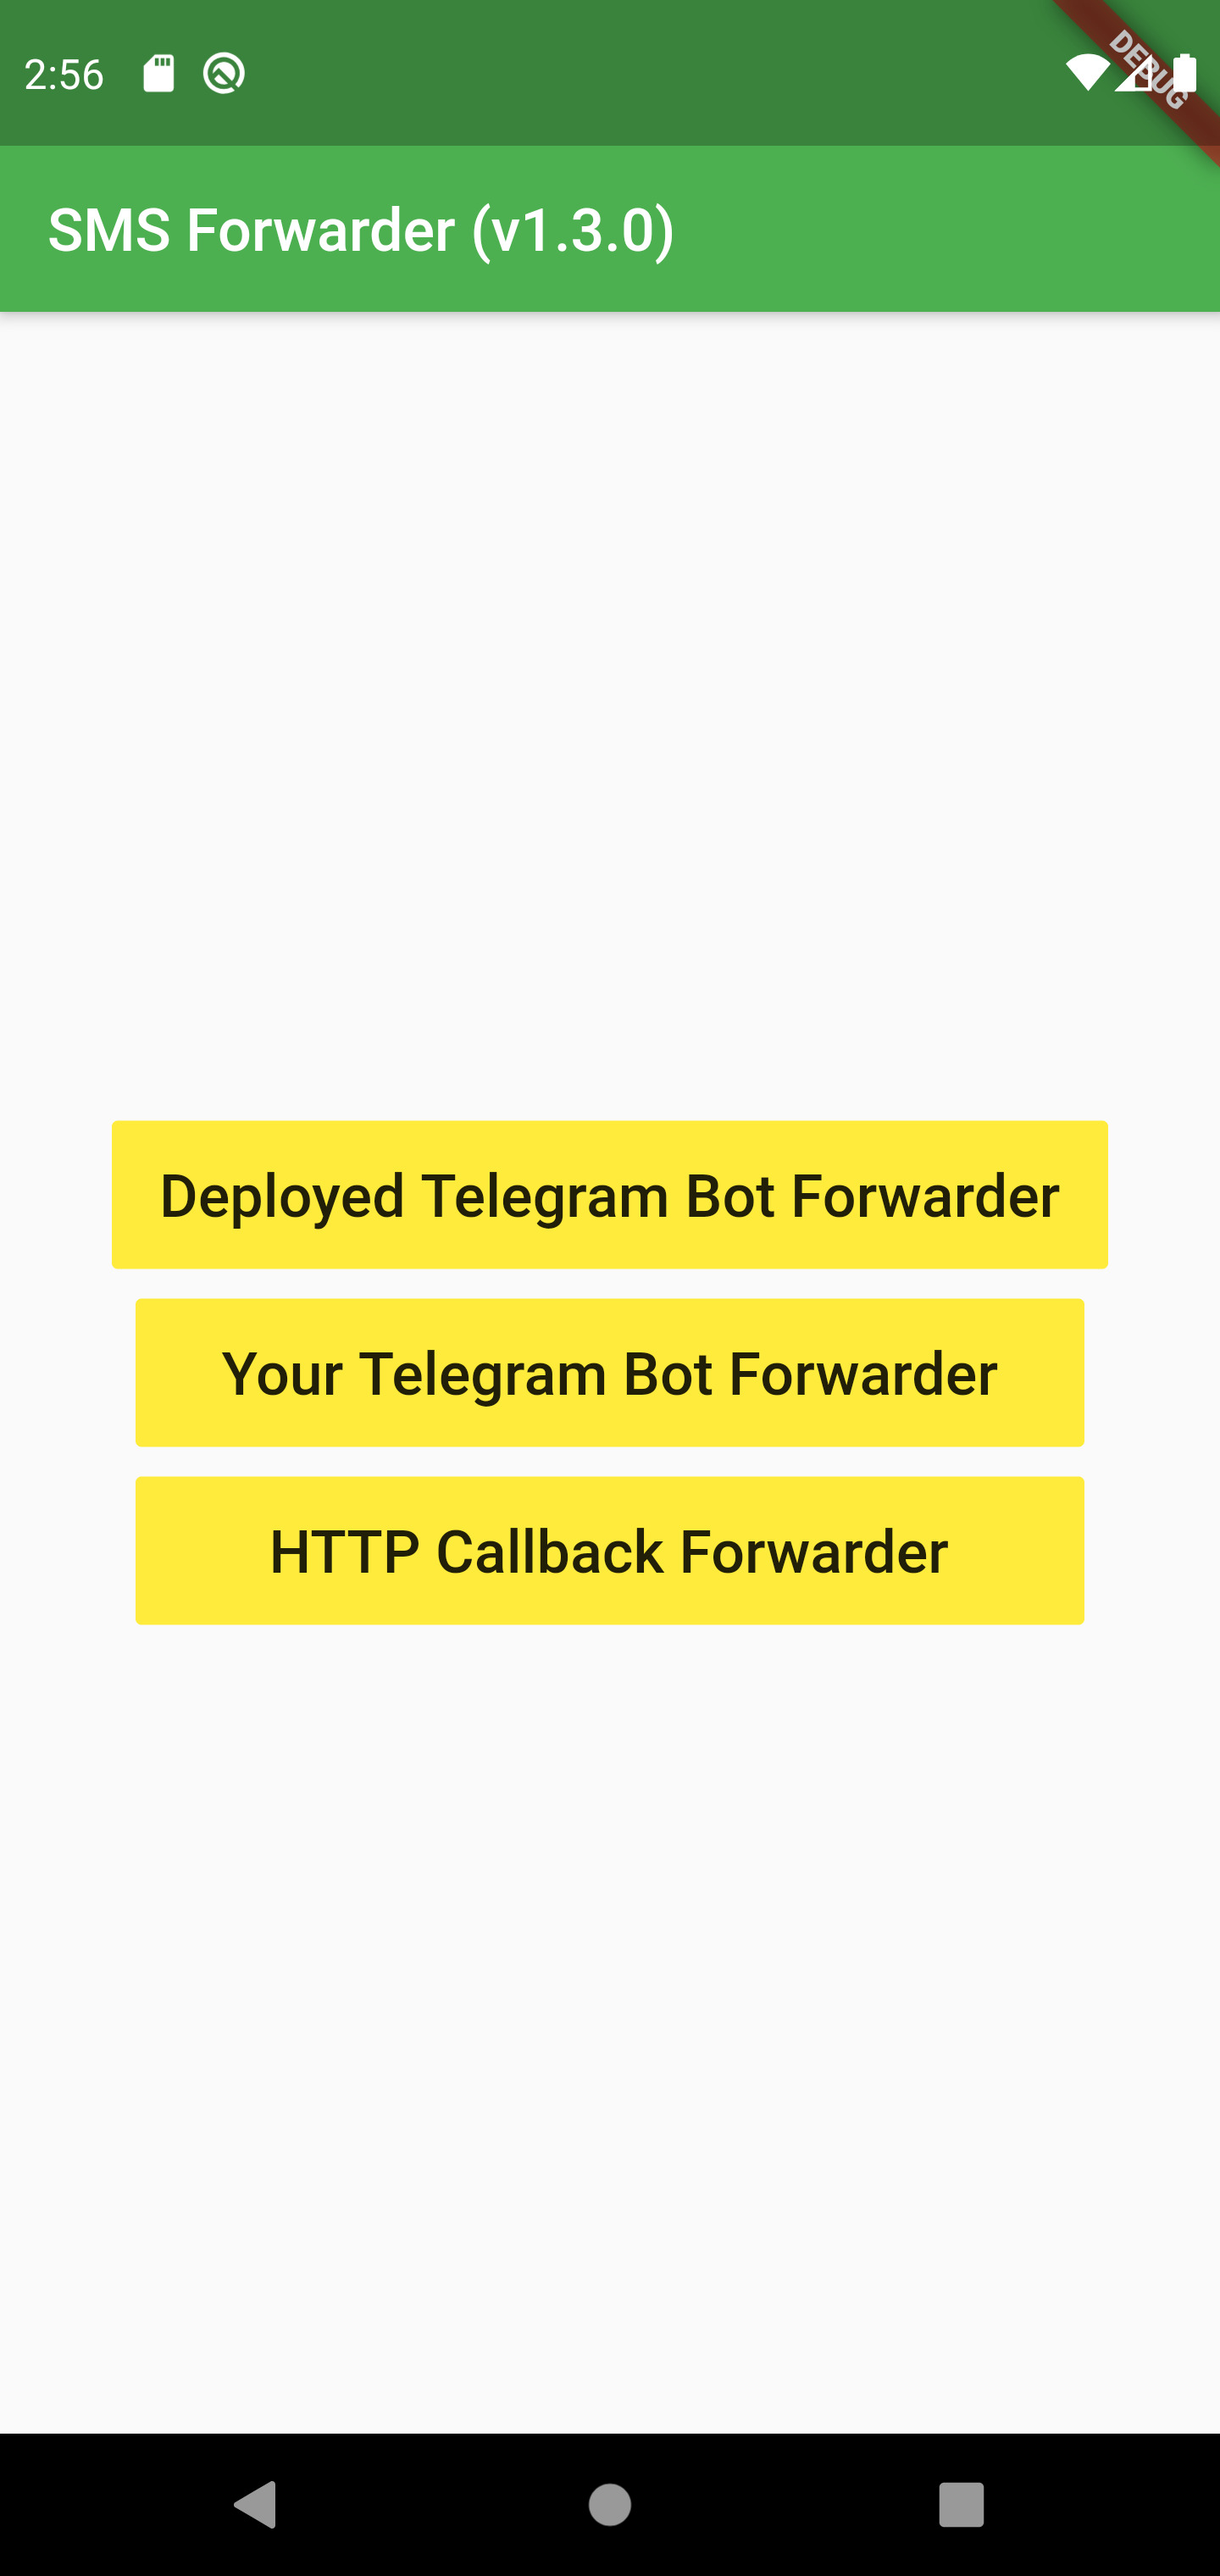
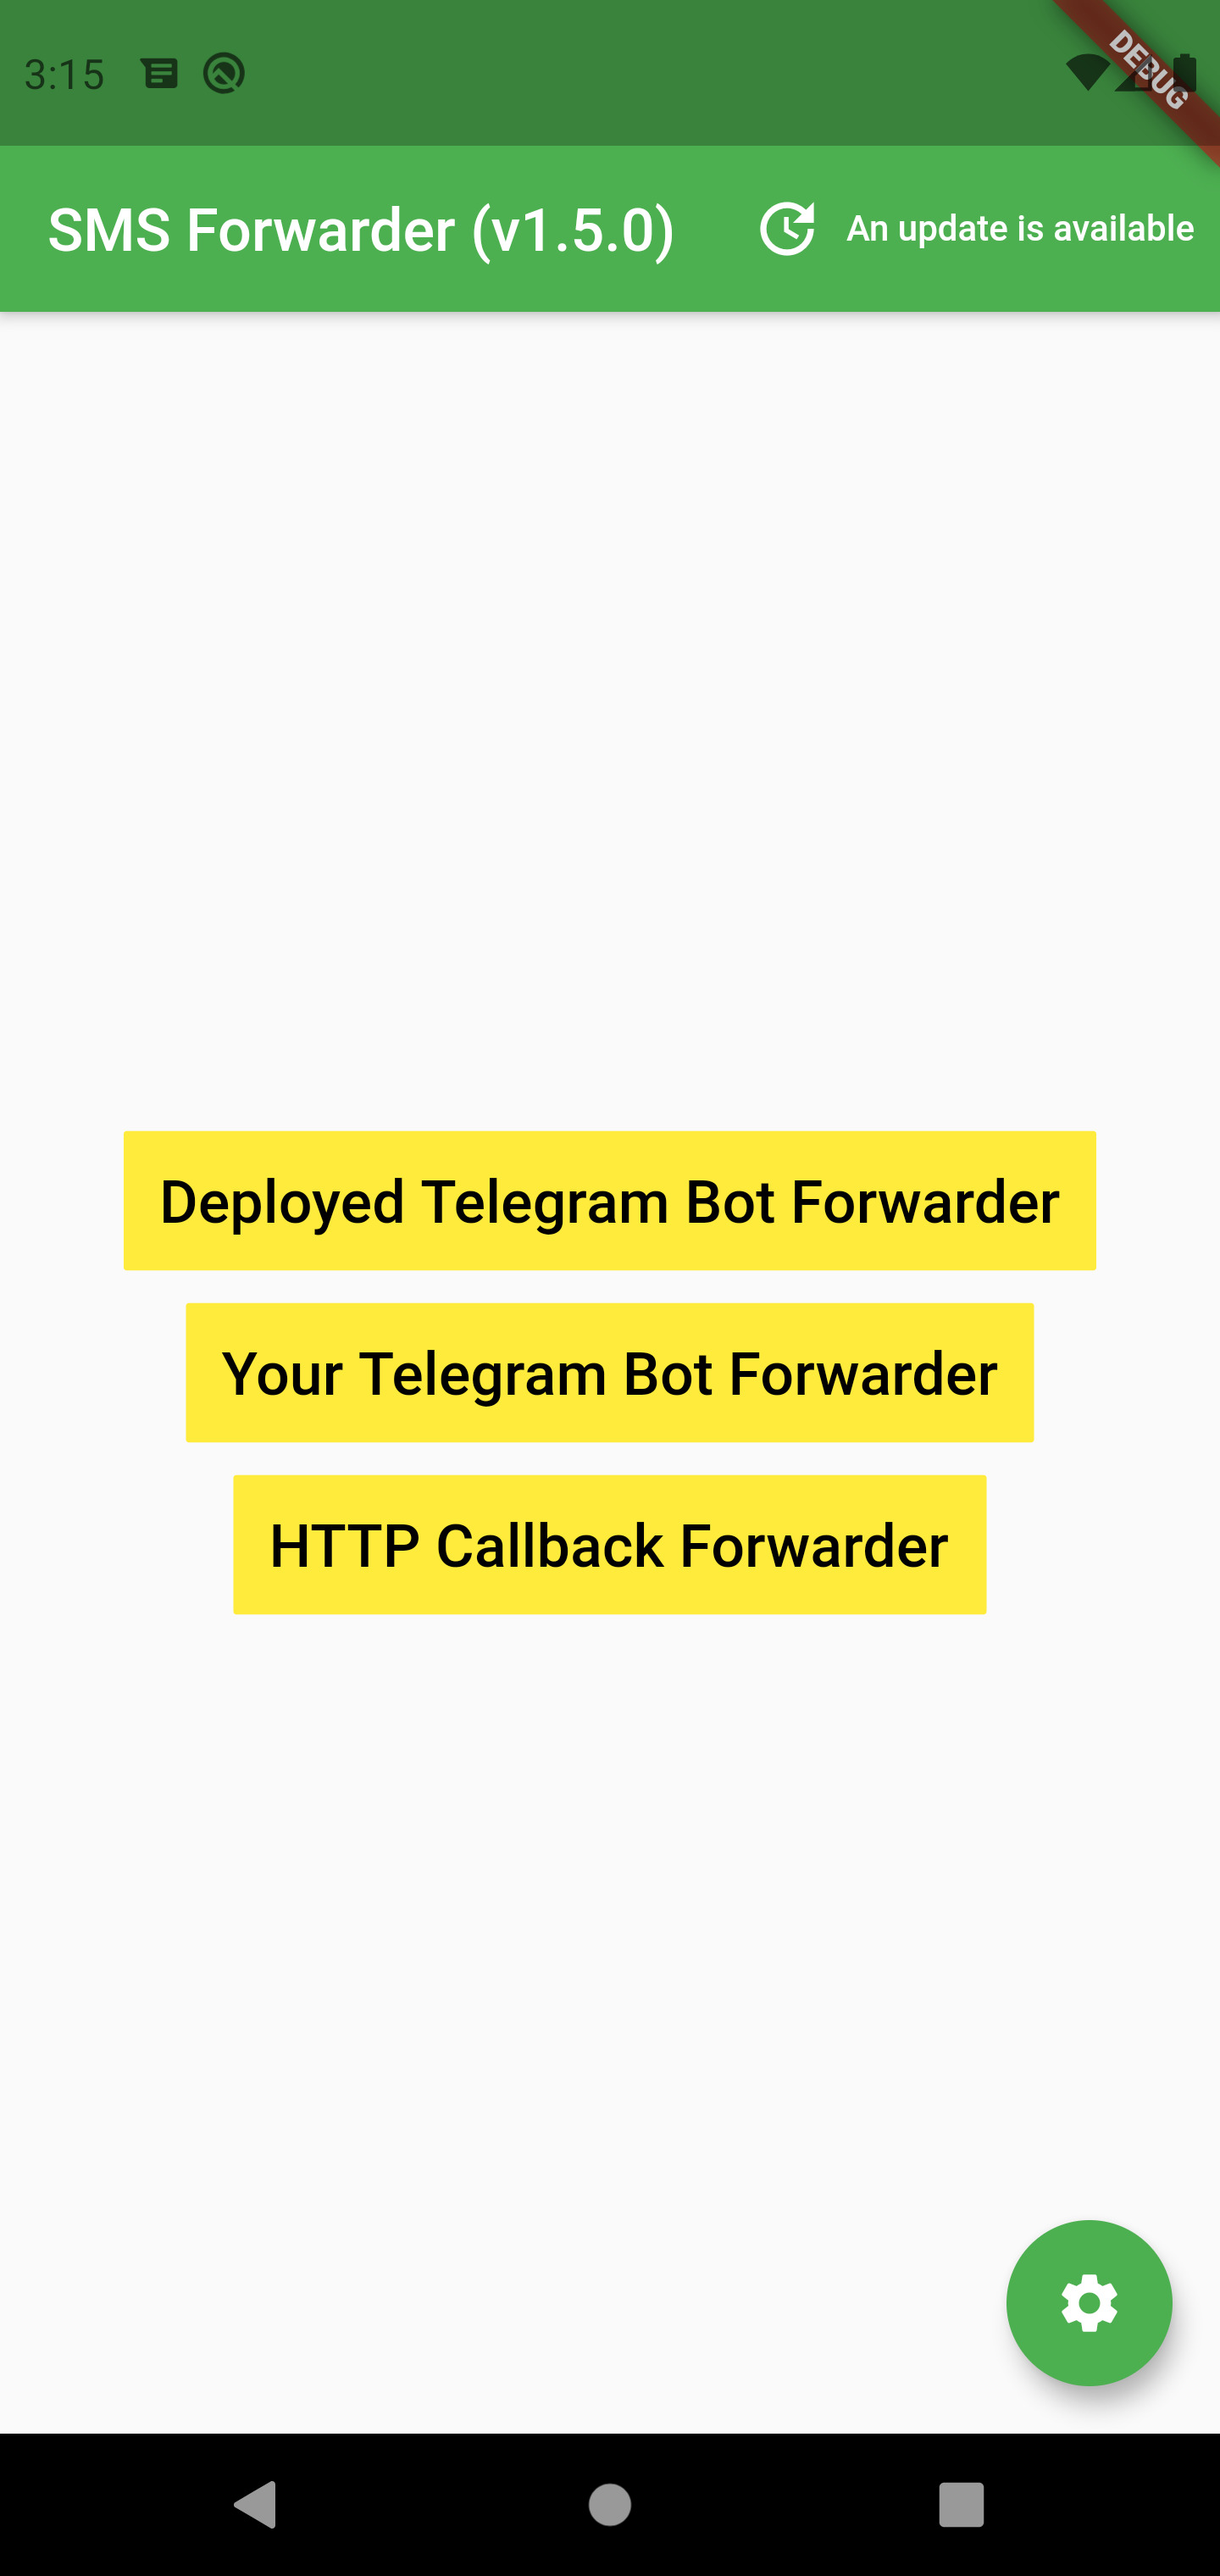
implement startup on boot; add global app settings

diff --git a/lib/app_settings.dart b/lib/app_settings.dart
@@ -1,0 +1,156 @@
+import 'package:flutter/material.dart';
+import 'package:shared_preferences/shared_preferences.dart';
+import 'package:sms_forwarder/background_forwarder.dart';
+import 'package:telephony/telephony.dart';
+
+class SettingStrings {
+  static final String launchOnStartup = "launch_on_startup";
+}
+
+/// A screen with the App's settings.
+class AppSettingsScreen extends StatefulWidget {
+  const AppSettingsScreen(this.fwd, {Key key}) : super(key: key);
+
+  final BackgroundForwarder fwd;
+
+  @override
+  _AppSettingsScreenState createState() => _AppSettingsScreenState(this.fwd);
+}
+
+class _AppSettingsScreenState extends State<AppSettingsScreen> {
+  _AppSettingsScreenState(this.fwd);
+
+  final BackgroundForwarder fwd;
+
+  OutlineInputBorder _testMessageBorder;
+  TextEditingController _testMessageController;
+
+  bool _launchOnStartup = true;
+  Map<String, bool> _forwardingResults;
+
+  @override
+  void initState() {
+    super.initState();
+
+    _testMessageController = new TextEditingController(text: "Test message");
+    _testMessageController.addListener(_onTextChanged);
+    setState(_onTextChanged);
+
+    _forwardingResults = {
+      "HttpCallbackForwarder": null,
+      "TelegramBotForwarder": null,
+      "DeployedTelegramBotForwarder": null,
+    };
+
+    fwd.loadFromPrefs();
+    SharedPreferences.getInstance().then((prefs) {
+      setState(() {
+        _launchOnStartup =
+            prefs.getBool(SettingStrings.launchOnStartup) ?? true;
+      });
+    });
+  }
+
+  void _onTextChanged() {
+    setState(() {
+      _testMessageBorder = OutlineInputBorder(
+          borderSide: BorderSide(
+              color: _testMessageController.text.length > 0
+                  ? Colors.green
+                  : Colors.red));
+    });
+  }
+
+  void _updatePreferences() async {
+    final instance = await SharedPreferences.getInstance();
+    instance.setBool(SettingStrings.launchOnStartup, _launchOnStartup);
+  }
+
+  void _testForwarders() async {
+    // ignore: invalid_use_of_visible_for_testing_member
+    final results  = await fwd.mgr.forward(SmsMessage.fromMap({
+      "address": "SmsForwarder",
+      "body": _testMessageController.text,
+      "date": DateTime.now().millisecondsSinceEpoch.toString(),
+    }, [
+      SmsColumn.ADDRESS,
+      SmsColumn.BODY,
+      SmsColumn.DATE,
+    ]));
+    setState(() {
+      _forwardingResults = results;
+    });
+  }
+
+  @override
+  Widget build(BuildContext context) {
+    final results = _forwardingResults.keys.toList(growable: false);
+    return Scaffold(
+      appBar: AppBar(
+        title: Text("App Settings"),
+      ),
+      body: Center(
+        child: Column(
+          mainAxisAlignment: MainAxisAlignment.spaceEvenly,
+          children: <Widget>[
+            Row(children: <Widget>[
+              Text(
+                "Launch on Startup: ",
+                style: TextStyle(fontSize: 20),
+              ),
+              Switch(
+                activeColor: Colors.green,
+                value: _launchOnStartup,
+                onChanged: (value) {
+                  setState(() => _launchOnStartup = value);
+                  _updatePreferences();
+                },
+              )
+            ], mainAxisAlignment: MainAxisAlignment.spaceAround),
+            Column(children: <Widget>[
+              Container(
+                child: TextField(
+                  controller: _testMessageController,
+                  decoration: InputDecoration(
+                      border: _testMessageBorder,
+                      enabledBorder: _testMessageBorder,
+                      disabledBorder: _testMessageBorder,
+                      hintText: "Enter a test message"),
+                ),
+                width: 350,
+              ),
+              ElevatedButton(
+                child: Text('Send Test Message'),
+                onPressed: _testForwarders,
+              ),
+              ListView.builder(
+                padding: const EdgeInsets.all(8),
+                shrinkWrap: true,
+                itemCount: results.length,
+                itemBuilder: (context, index) {
+                  final forwarder = results[index];
+                  final result = _forwardingResults[forwarder];
+                  Color color;
+                  if (result == null) {
+                    color = Colors.grey;
+                  } else if (result) {
+                    color = Colors.green;
+                  } else {
+                    color = Colors.red[200];
+                  }
+                  return Container(
+                    height: 50,
+                    child: Center(child: Text(forwarder)),
+                    decoration:
+                        BoxDecoration(border: Border.all(), color: color),
+                    margin: EdgeInsets.symmetric(vertical: 1),
+                  );
+                },
+              )
+            ])
+          ],
+        ),
+      ),
+    );
+  }
+}

diff --git a/lib/main.dart b/lib/main.dart
@@ -4,6 +4,7 @@ import 'package:sms_forwarder/update_checker.dart';
 import 'package:telephony/telephony.dart';
 import 'package:url_launcher/url_launcher.dart';
 
+import 'app_settings.dart';
 import 'forwarding.dart';
 import 'key_value_settings.dart';
 import 'background_forwarder.dart';
@@ -25,7 +26,7 @@ class MyApp extends StatelessWidget {
       theme: new ThemeData(
         primarySwatch: Colors.green,
       ),
-      home: new HomePage(title: 'SMS Forwarder (v1.4.0)', fwd: this.fwd),
+      home: new HomePage(title: 'SMS Forwarder ($APP_VERSION)', fwd: this.fwd),
     );
   }
 }
@@ -102,12 +103,12 @@ class _HomePageState extends State<HomePage> {
     }
 
     return TextButton.icon(
-        onPressed: () async => await launch(GITHUB_URL),
-        icon: Icon(icon, color: Colors.white),
-        label: Text(
-          label,
-          style: TextStyle(fontSize: 12, color: Colors.white),
-        ),
+      onPressed: () async => await launch(GITHUB_URL),
+      icon: Icon(icon, color: Colors.white),
+      label: Text(
+        label,
+        style: TextStyle(fontSize: 12, color: Colors.white),
+      ),
     );
   }
 
@@ -181,6 +182,13 @@ class _HomePageState extends State<HomePage> {
             ),
           ],
         ),
+      ),
+      floatingActionButton: FloatingActionButton(
+        onPressed: () => showDialog(
+            context: context,
+            builder: (_) => AppSettingsScreen(this.widget.fwd)),
+        tooltip: "App Settings",
+        child: Icon(Icons.settings),
       ),
     );
   }

diff --git a/lib/forwarding.dart b/lib/forwarding.dart
@@ -99,7 +99,7 @@ abstract class HttpForwarder implements AbstractForwarder {
       // TODO: remove debug prints
       debugPrint("Response status: ${response.statusCode}.");
       debugPrint("Response body: \'${response.body}\'.");
-      return response.statusCode == 200;
+      return response.statusCode >= 200 && response.statusCode < 400;
     });
   }
 }
@@ -231,7 +231,7 @@ class TelegramBotForwarder extends AbstractForwarder with HttpForwarder {
   /// Telegram chat id.
   int get chatId => _chatId;
 
-  /// Creates a new TelegramBotForwared instance.
+  /// Creates a new TelegramBotForwarder instance.
   TelegramBotForwarder(this._token, this._chatId);
 
   /// Creates a new TelegramBotForwarder instances from [json].

diff --git a/lib/update_checker.dart b/lib/update_checker.dart
@@ -3,7 +3,7 @@ import 'dart:io';
 
 import 'package:http/http.dart' as http;
 
-const String APP_VERSION = "v1.4.1";
+const String APP_VERSION = "v1.5.0";
 const String GITHUB_URL = "https://github.com/optimalstrategy/"
     "sms_forwarder_app/releases/latest";
 const String GITHUB_API_URL = "https://api.github.com/repos/"

diff --git a/android/app/src/main/java/team/whatever/sms_forwarder_app/StartSmsForwarderServiceAtBootReceiver.java b/android/app/src/main/java/team/whatever/sms_forwarder_app/StartSmsForwarderServiceAtBootReceiver.java
@@ -1,0 +1,34 @@
+package team.whatever.sms_forwarder_app;
+
+import android.content.BroadcastReceiver;
+import android.content.Context;
+import android.content.Intent;
+import android.content.SharedPreferences;
+import android.os.Handler;
+
+
+import static android.content.Context.MODE_PRIVATE;
+
+class StartSmsForwarderServiceAtBootReceiver extends BroadcastReceiver {
+    private static final String TAG = StartSmsForwarderServiceAtBootReceiver.class.getSimpleName();
+
+    @Override
+    public void onReceive(Context context, Intent intent) {
+        Handler h = new Handler();
+        h.post(new Runnable() {
+            @Override
+            public void run() {
+                final SharedPreferences prefs = context.getSharedPreferences(
+                        "FlutterSharedPreferences",
+                        MODE_PRIVATE
+                );
+                final boolean launchOnStartup = prefs.getBoolean("flutter.launch_on_startup", true);
+                if (launchOnStartup) {
+                    Intent intent_ = new Intent(context, MainActivity.class);
+                    intent_.addFlags(Intent.FLAG_ACTIVITY_NEW_TASK);
+                    context.startActivity(intent_);
+                }
+            }
+        });
+    }
+}

diff --git a/README.md b/README.md
@@ -59,3 +59,12 @@ Tap accept to confirm. This will also turn off forwarding.
 <p align="center">
   <img src="screenshots/reset_settings_popup.jpg" width="288" height="608">
 </p>
+
+
+## Global Settings and Launch on Startup
+By default, the app will automatically launch on startup.
+This option can be disabled in the global app settings that can be accessed by tapping the gear icon:
+
+<p align="center">
+  <img src="screenshots/app_settings.jpg" width="288" height="608">
+</p>
